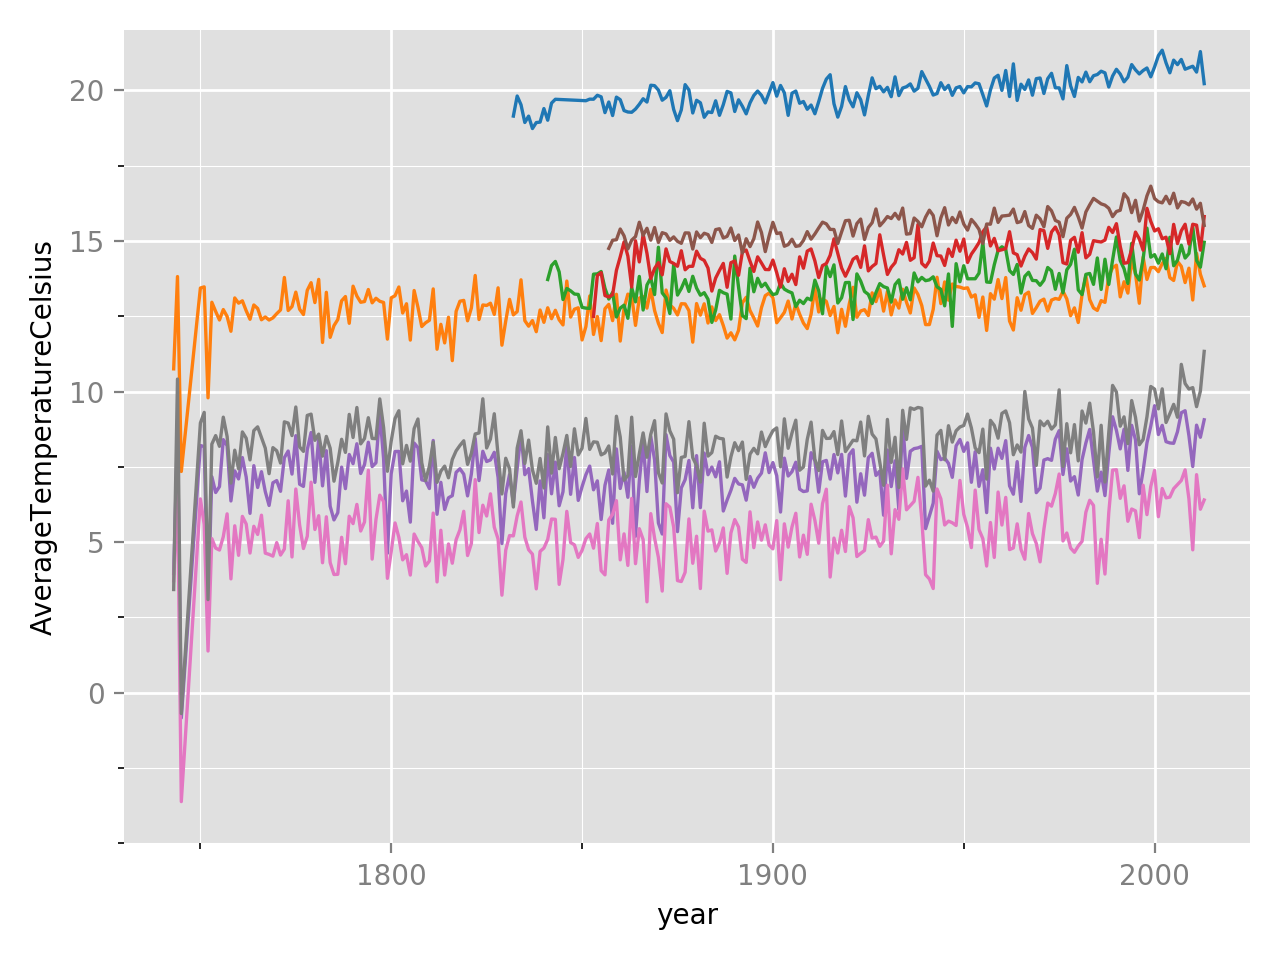
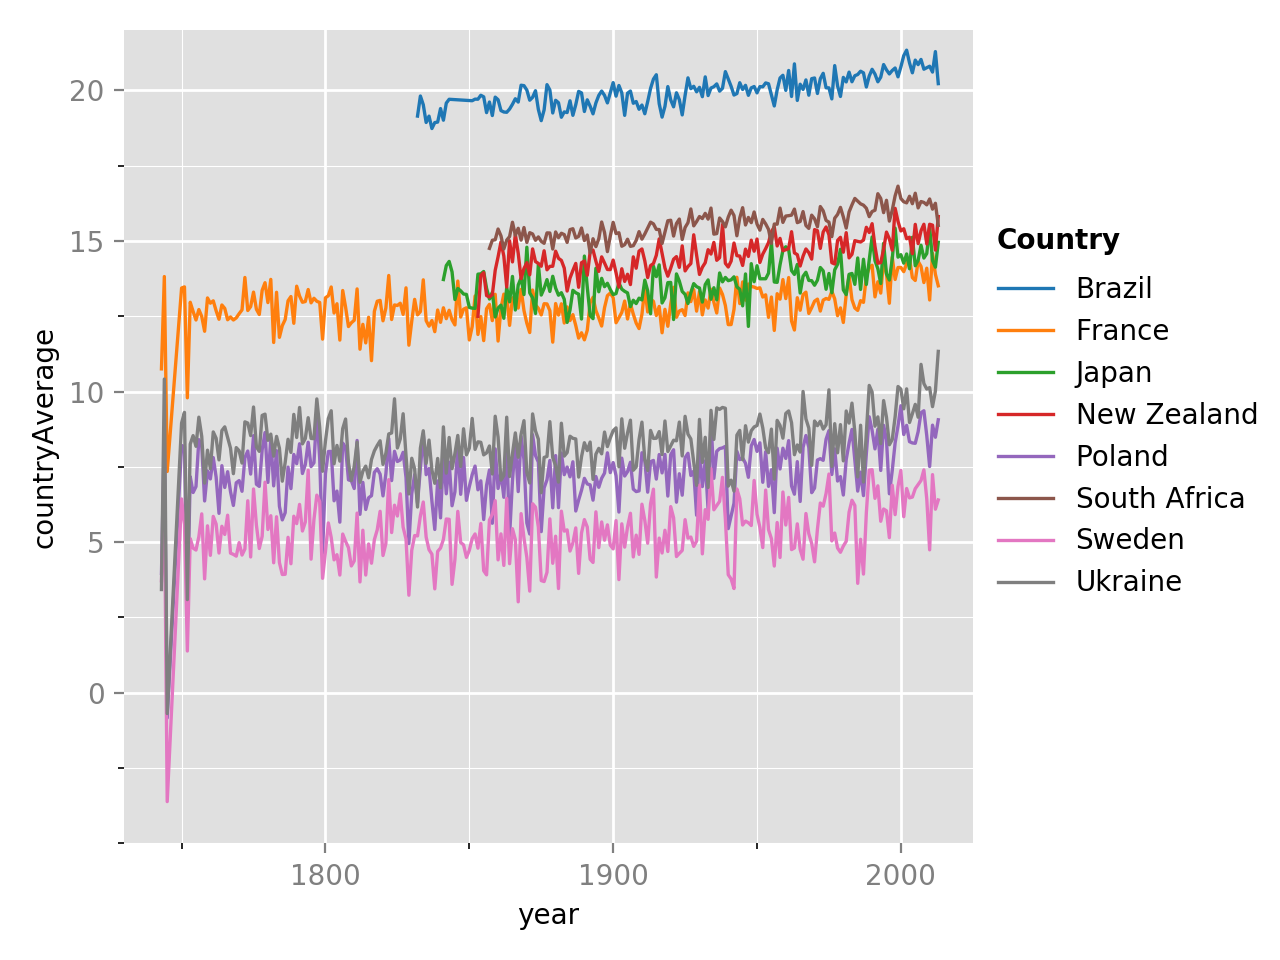
4c

diff --git a/plot_4c.py b/plot_4c.py
@@ -1,11 +1,19 @@
 from utils import import_data_4a, plot_axes_4, save_plot
+import matplotlib.pyplot as plt
 
 years, averages = import_data_4a()
 
 fig, ax = plot_axes_4()
 
+country_codes = ['Brazil', 'France', 'Japan', 'New Zealand', 'Poland', 'South Africa', 'Sweden', 'Ukraine']
+
 for i in range(len(averages)):
-    ax.plot(years[i], averages[i], linewidth=1.2)
+    ax.plot(years[i], averages[i], linewidth=1.2, label=country_codes[i])
+
+plt.subplots_adjust(right=0.76)
+plt.legend(bbox_to_anchor=(1.,0.5), loc='center left', frameon=False)
+plt.text(2055, 15, 'Country', size='medium', horizontalalignment='center',
+         weight='bold', verticalalignment='center')
 
 save_plot('4c')
 

diff --git a/utils.py b/utils.py
@@ -121,7 +121,7 @@ def plot_axes_4():
     ax.tick_params(axis='x', colors='grey')
     ax.tick_params(axis='y', colors='grey')
 
-    plt.ylabel('AverageTemperatureCelsius')
+    plt.ylabel('countryAverage')
     plt.xlabel('year')
     plt.tight_layout()
     plt.grid(True, zorder=0, color='white')
